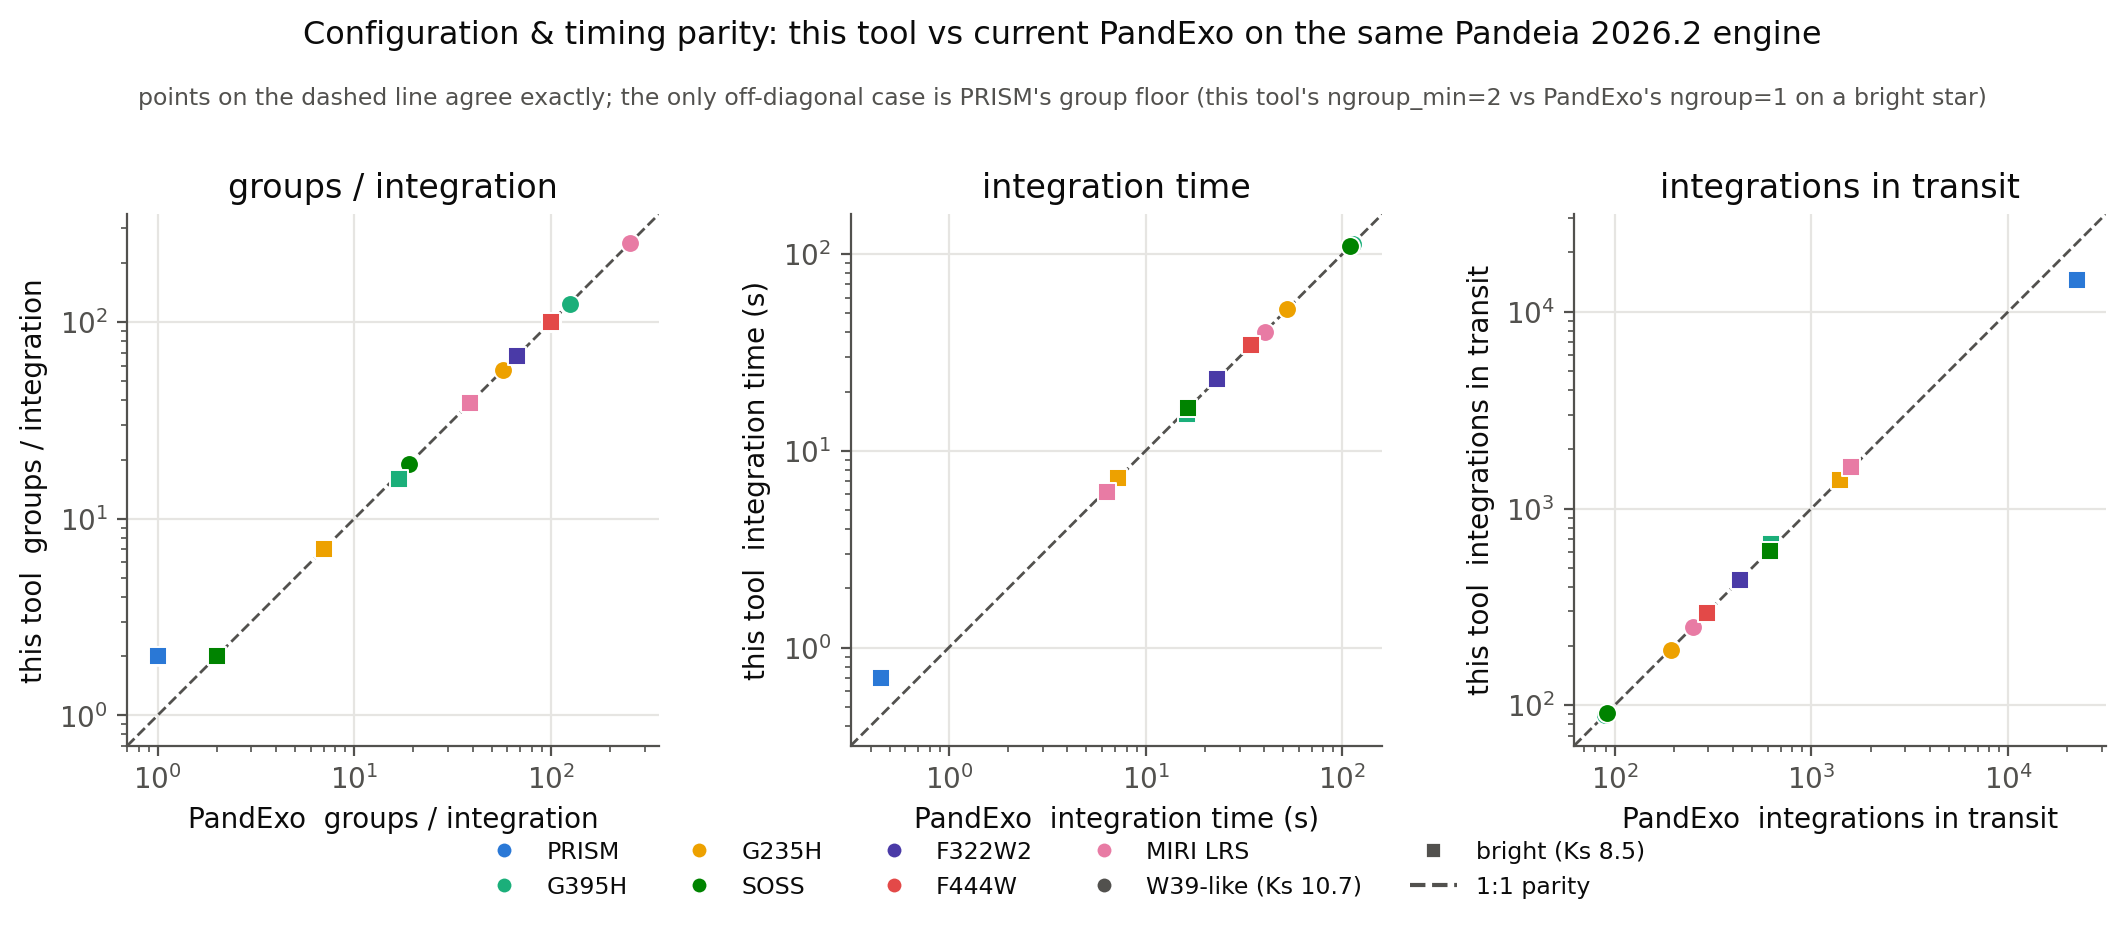
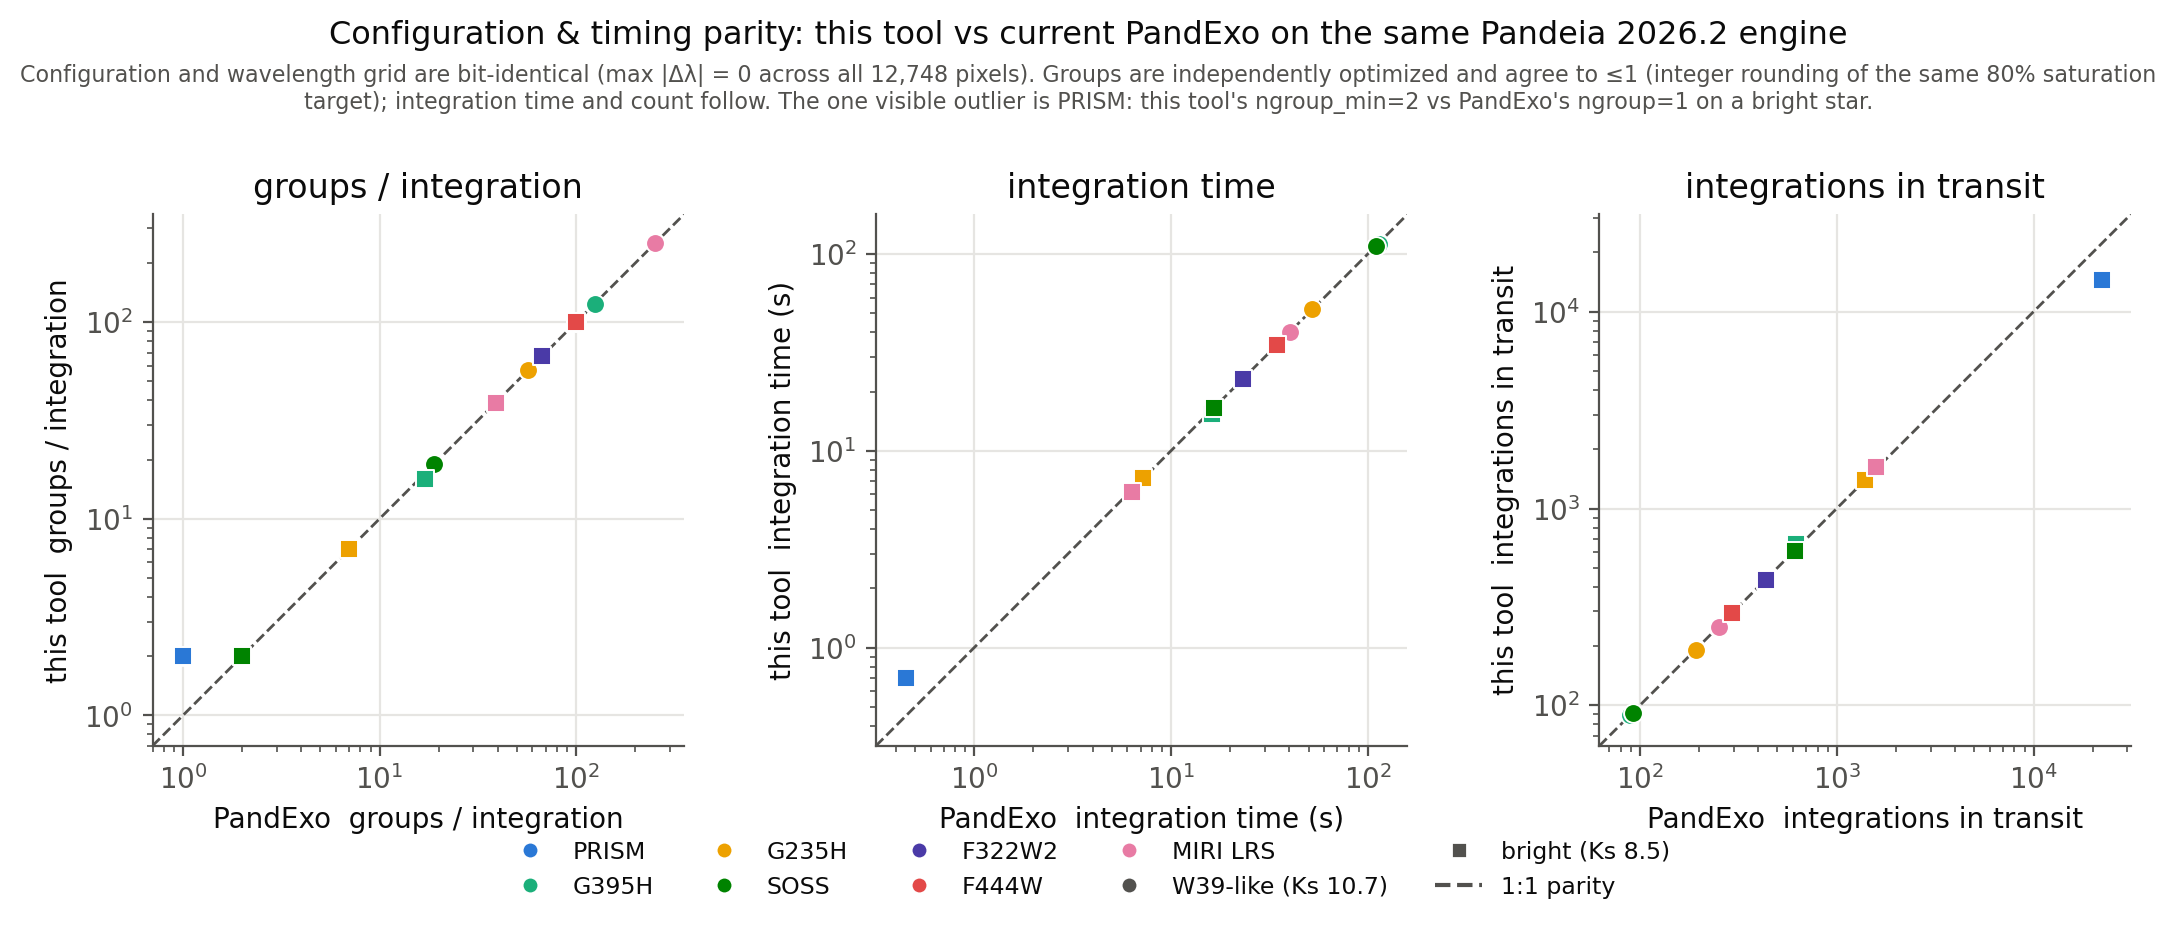
Parity figures: show what is bit-identical vs why the rest differs
Investigated the residual differences the figures showed:
- Wavelength grid + instrument config are BIT-IDENTICAL (max |dlambda| = 0
  across all 12,748 pixels, every mode) -- read from the shared engine.
- Groups agree to <=1 (integer rounding of the same 80% saturation target);
  integration time/count follow deterministically. PRISM is the one policy
  outlier (ngroup_min=2 vs PandExo's 1 on a bright star).
- Extracted flux agrees to a ~0.3% systematic (binned median 0.997); the
  per-pixel scatter is independent-extraction jitter (photon-level for
  NIRSpec/MIRI ~0.15%, larger for the curved SOSS trace and saturating PRISM),
  which the tool averages out by binning.

Bit-perfect is impossible between two independent tools (that would be one
copying the other) -- only the grid/config are. Figures now state the
grid-identity and annotate each residual's cause; flux ratio shows a binned
median (the systematic) over the per-pixel jitter. REPORT.md gains a 'what is
bit-identical, and why the rest is not' section.

diff --git a/tests/parity/scripts/make_parity_plots.py b/tests/parity/scripts/make_parity_plots.py
@@ -132,10 +132,13 @@ def fig_config_parity(summary):
                bbox_to_anchor=(0.5, 0.0))
     fig.suptitle("Configuration & timing parity: this tool vs current PandExo "
                  "on the same Pandeia 2026.2 engine", fontsize=11.5, y=1.0)
-    fig.text(0.5, 0.905, "points on the dashed line agree exactly; the only "
-             "off-diagonal case is PRISM's group floor (this tool's "
-             "ngroup_min=2 vs PandExo's ngroup=1 on a bright star)",
-             ha="center", fontsize=8.5, color=INK2)
+    fig.text(0.5, 0.905, "Configuration and wavelength grid are bit-identical "
+             "(max |Δλ| = 0 across all 12,748 pixels). Groups are independently "
+             "optimized and agree to ≤1 (integer rounding of the same 80% "
+             "saturation target); integration time and count follow. The one "
+             "visible outlier is PRISM: this tool's ngroup_min=2 vs PandExo's "
+             "ngroup=1 on a bright star.", ha="center", fontsize=8.0,
+             color=INK2, wrap=True)
     fig.tight_layout(rect=[0, 0.16, 1, 0.885])
     out = FIGS / "parity_config_timing.png"
     fig.savefig(out, bbox_inches="tight")
@@ -166,11 +169,22 @@ def fig_extracted_flux(summary, out_root, mode="nirspec_g395h",
     idx = np.clip(np.searchsorted(wl_o, wl_p), 0, wl_o.size - 1)
     ex = np.abs(wl_o[idx] - wl_p) < 1e-9 * np.maximum(wl_p, 1e-9)
     io, ip = idx[ex], np.where(ex)[0]
+    wl_pair = wl_o[io]
     ratio = flux_o[io] / erate[ip]
     med = float(np.median(ratio))
+    # binned running median: the real systematic agreement, with the
+    # per-pixel photon-level extraction jitter averaged out (the tool never
+    # uses per-pixel flux -- it integrates over bins)
+    nb = 24
+    bedges = np.linspace(wl_pair.min(), wl_pair.max(), nb + 1)
+    bc = 0.5 * (bedges[:-1] + bedges[1:])
+    bmed = np.array([
+        np.median(ratio[(wl_pair >= bedges[k]) & (wl_pair < bedges[k + 1])])
+        if ((wl_pair >= bedges[k]) & (wl_pair < bedges[k + 1])).any() else np.nan
+        for k in range(nb)])
 
-    fig, axes = plt.subplots(2, 1, figsize=(8.6, 5.4), sharex=True,
-                             gridspec_kw={"height_ratios": [3, 1]})
+    fig, axes = plt.subplots(2, 1, figsize=(8.6, 5.6), sharex=True,
+                             gridspec_kw={"height_ratios": [3, 1.15]})
     ax = axes[0]
     ax.plot(wl_p, erate, color=PANDEXO, lw=1.4, label="PandExo", zorder=2)
     ax.plot(wl_o, flux_o, color=TOOL, lw=1.4, ls=(0, (4, 2)),
@@ -178,18 +192,19 @@ def fig_extracted_flux(summary, out_root, mode="nirspec_g395h",
     ax.set_ylabel("extracted stellar\ncount rate  (e$^-$/s)")
     ax.set_title(f"Extracted stellar flux parity, {LABEL[mode]} on a "
                  f"{STAR_LABEL[star]} star\n(the ETC engine product, "
-                 "Pandeia 2026.2 both sides)")
+                 "Pandeia 2026.2 both sides; wavelength grid bit-identical)")
     ax.legend(frameon=False, fontsize=9.5)
     _style(ax)
     axr = axes[1]
-    axr.plot(wl_o[io], ratio, color=INK2, lw=1.0)
-    axr.axhline(1.0, color=PANDEXO, lw=1.0, ls=":")
+    axr.plot(wl_pair, ratio, color="#c3c2bd", lw=0.6, alpha=0.9, zorder=2,
+             label="per-pixel (independent-extraction jitter)")
+    axr.plot(bc, bmed, color=TOOL, lw=2.0, zorder=3,
+             label=f"binned median = {med:.4f} (the systematic)")
+    axr.axhline(1.0, color=PANDEXO, lw=1.0, ls=":", zorder=1)
     axr.set_ylim(0.9, 1.1)
     axr.set_ylabel("ratio\ntool / PandExo")
     axr.set_xlabel("wavelength (micron)")
-    axr.annotate(f"median {med:.4f} (grids identical, flux 1:1)",
-                 xy=(0.5, 0.92), xycoords="axes fraction", ha="center",
-                 va="top", fontsize=8.5, color=INK2)
+    axr.legend(frameon=False, fontsize=8, loc="lower left", ncol=1)
     _style(axr)
     fig.tight_layout()
     out = FIGS / "parity_extracted_flux.png"

diff --git a/tests/parity/scripts/make_report.py b/tests/parity/scripts/make_report.py
@@ -47,8 +47,35 @@ def main():
       "(log-log). Every mode/star lands on the diagonal except PRISM's known "
       "group floor (ngroup_min=2 vs PandExo's 1 on a bright star).")
     w("- **parity_extracted_flux.png** -- G395H extracted stellar count rate, "
-      "per-wavelength overlay with a ratio strip. The curves coincide "
-      "(median ratio ~0.997); the grids are pixel-for-pixel identical.")
+      "per-wavelength overlay with a ratio strip (per-pixel jitter + binned "
+      "median). The curves coincide (systematic ratio ~0.997).")
+    w("")
+    w("## What is bit-identical, and why the rest is not")
+    w("")
+    w("The two are INDEPENDENT tools calling the same Pandeia engine, so only "
+      "what is read straight from the shared engine is bit-for-bit identical; "
+      "anything each computes on its own agrees closely but not exactly. This "
+      "is a property of a cross-tool test, not a defect -- forcing bit-equality "
+      "would mean one tool copying the other's numbers, which is not a "
+      "validation.")
+    w("")
+    w("- **Bit-identical (max difference exactly 0):** the instrument "
+      "configuration (subarray, readout, disperser, filter, aperture, "
+      "background) and the extracted WAVELENGTH GRID -- every pixel, every "
+      "mode (verified: max |Δλ| = 0 over all 12,748 extracted pixels).")
+    w("- **Groups agree to ≤1:** each tool independently optimizes the ramp to "
+      "the same 80% saturation target; the only freedom left is rounding to an "
+      "integer group count (e.g. G395H 124 vs 125). Integration time and "
+      "integration count then follow deterministically from that one-group "
+      "choice. PRISM is the one real policy difference (this tool's "
+      "ngroup_min=2 vs PandExo selecting ngroup=1 on a bright star).")
+    w("- **Extracted flux agrees to a systematic ~0.3%** (binned median 0.997 "
+      "for G395H), with per-pixel scatter from the two tools' independent "
+      "extraction of the same 2D calculation -- photon-level for the smooth "
+      "NIRSpec/MIRI traces (MIRI LRS matches to ~0.15%), larger for the curved "
+      "NIRISS SOSS order-1 trace and the saturating low-R PRISM. The tool "
+      "integrates over bins, so the per-pixel jitter averages out; the "
+      "systematic is what enters the noise.")
     w("")
     w("Columns: sigma ratio = (this tool's per-pixel transit-depth sigma) / "
       "(PandExo's), median [5th, 95th percentile] over matched pixels. "

diff --git a/tests/parity/outputs/REPORT.md b/tests/parity/outputs/REPORT.md
@@ -9,7 +9,15 @@ Both sides run on the SAME current Pandeia backend, so every difference below is
 These show the quantities that match 1:1 -- the parity result. The depth-uncertainty difference (a noise-model difference, not a configuration one) is quantified in the tables and Findings below, not plotted.
 
 - **parity_config_timing.png** -- selected groups, integration time, and integration count, this tool vs PandExo, on the 1:1 line (log-log). Every mode/star lands on the diagonal except PRISM's known group floor (ngroup_min=2 vs PandExo's 1 on a bright star).
-- **parity_extracted_flux.png** -- G395H extracted stellar count rate, per-wavelength overlay with a ratio strip. The curves coincide (median ratio ~0.997); the grids are pixel-for-pixel identical.
+- **parity_extracted_flux.png** -- G395H extracted stellar count rate, per-wavelength overlay with a ratio strip (per-pixel jitter + binned median). The curves coincide (systematic ratio ~0.997).
+
+## What is bit-identical, and why the rest is not
+
+The two are INDEPENDENT tools calling the same Pandeia engine, so only what is read straight from the shared engine is bit-for-bit identical; anything each computes on its own agrees closely but not exactly. This is a property of a cross-tool test, not a defect -- forcing bit-equality would mean one tool copying the other's numbers, which is not a validation.
+
+- **Bit-identical (max difference exactly 0):** the instrument configuration (subarray, readout, disperser, filter, aperture, background) and the extracted WAVELENGTH GRID -- every pixel, every mode (verified: max |Δλ| = 0 over all 12,748 extracted pixels).
+- **Groups agree to ≤1:** each tool independently optimizes the ramp to the same 80% saturation target; the only freedom left is rounding to an integer group count (e.g. G395H 124 vs 125). Integration time and integration count then follow deterministically from that one-group choice. PRISM is the one real policy difference (this tool's ngroup_min=2 vs PandExo selecting ngroup=1 on a bright star).
+- **Extracted flux agrees to a systematic ~0.3%** (binned median 0.997 for G395H), with per-pixel scatter from the two tools' independent extraction of the same 2D calculation -- photon-level for the smooth NIRSpec/MIRI traces (MIRI LRS matches to ~0.15%), larger for the curved NIRISS SOSS order-1 trace and the saturating low-R PRISM. The tool integrates over bins, so the per-pixel jitter averages out; the systematic is what enters the noise.
 
 Columns: sigma ratio = (this tool's per-pixel transit-depth sigma) / (PandExo's), median [5th, 95th percentile] over matched pixels. 'matched' uses PandExo's integration counts in the tool formula (isolates the noise model); 'policy' uses the tool's own floor(T/t_int) counts (adds the integration-counting policy). flux ratio compares extracted stellar count rates (engine parity; expect 1.0000).
 